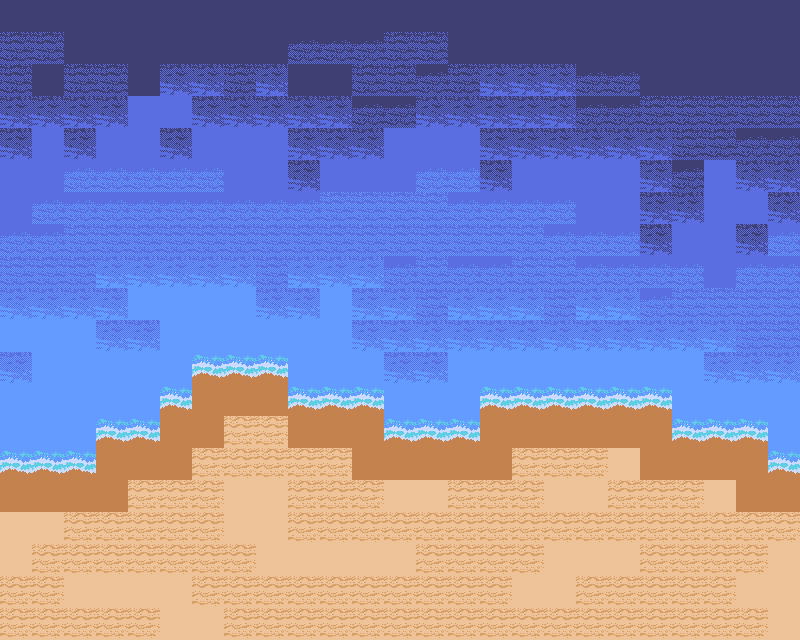
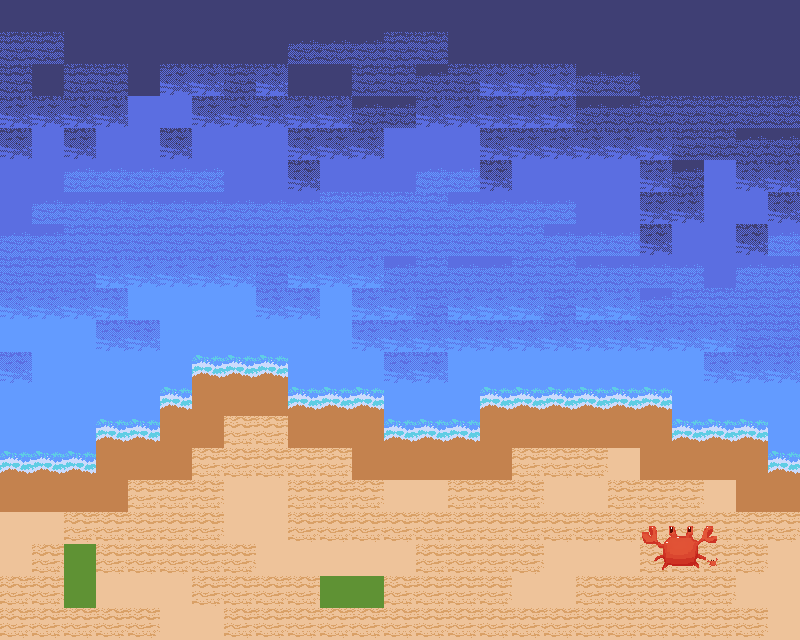
해변 양방향 업데이트 텍스처 업데이트

Changed region(s): [[0.7812, 0.8125, 0.9062, 0.9062], [0.375, 0.875, 0.5, 0.9688], [0.0625, 0.8438, 0.125, 0.9688]]

diff --git a/main.py b/main.py
@@ -182,8 +182,8 @@ class GameState():
                                                                        level.visible_sprites.map_size[1] * self.zoom))
             level.visible_sprites.floor_rect = level.visible_sprites.floor_surf.get_rect(topleft=(0, 0))
             # 플레이어 재배치
-            level.player.hitbox.x = 400
-            level.player.hitbox.y = 1000
+            level.player.hitbox.x = 120
+            level.player.hitbox.y = 1100
 
             # 맵 변경 변수
             self.is_intro = False
